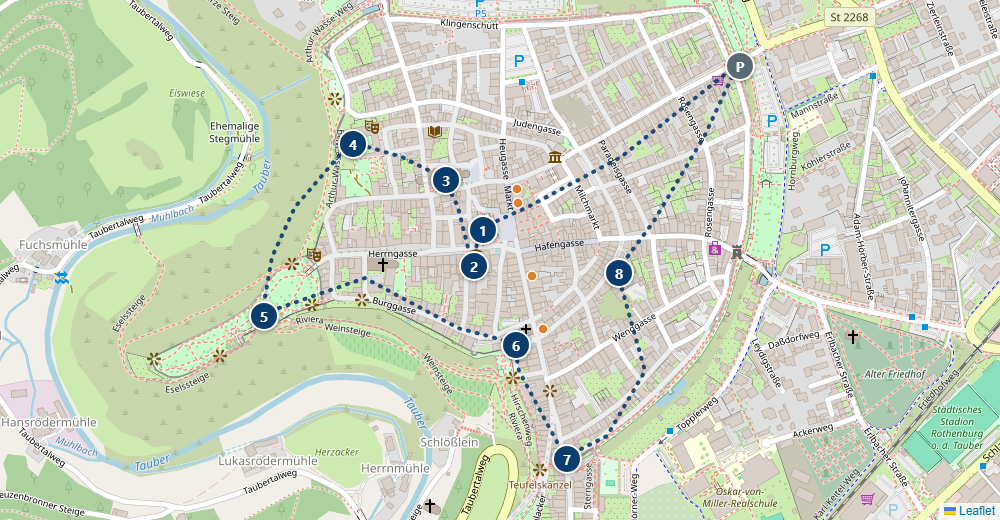
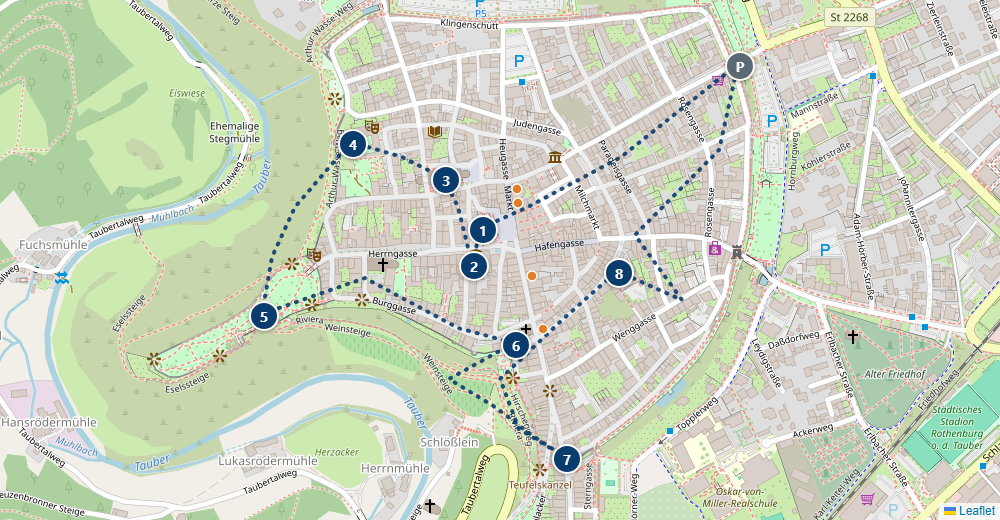
Break up the 6-7-8-P triangle shape on Rothenburg's map with denser zigzags
Points 6, 7, and 8 sit close together in a small triangular
arrangement, so even with one dogleg per leg the path still read as a
clean triangle. Added a 3-waypoint S-curve to each of the 6->7, 7->8,
and 8->P legs so the path visibly winds through the old town instead
of tracing the macro-shape formed by the three points.

diff --git a/germany-roadtrip-planner.html b/germany-roadtrip-planner.html
@@ -1159,7 +1159,7 @@ document.addEventListener('DOMContentLoaded', function(){
       <a class="walk-map-link" href="https://www.google.com/maps/dir/?api=1&travelmode=walking&origin=49.3795,10.1840&destination=49.3795,10.1840&waypoints=49.3772%2C10.1785%7C49.3767%2C10.1783%7C49.3779%2C10.1777%7C49.3784%2C10.1757%7C49.376%2C10.1738%7C49.3756%2C10.1792%7C49.374%2C10.1803%7C49.3766,10.1814" target="_blank" rel="noopener">📍 Google 지도로 도보 코스 보기(출발·도착: P4 Galgentor 주차장) · 총 약 3.1km · 도보 약 44분</a>
       <div class="route-snapshot">
         <div class="route-snapshot-media">
-          <img src="images/routes/rothenburg.png?v=4" alt="로텐부르크 도보 코스 지도 스냅샷" loading="lazy">
+          <img src="images/routes/rothenburg.png?v=5" alt="로텐부르크 도보 코스 지도 스냅샷" loading="lazy">
         </div>
         <ol class="route-steps">
         <li class="rs-p"><span class="rs-name">성벽 구시가(Galgentor)</span></li>

diff --git a/index.html b/index.html
@@ -1159,7 +1159,7 @@ document.addEventListener('DOMContentLoaded', function(){
       <a class="walk-map-link" href="https://www.google.com/maps/dir/?api=1&travelmode=walking&origin=49.3795,10.1840&destination=49.3795,10.1840&waypoints=49.3772%2C10.1785%7C49.3767%2C10.1783%7C49.3779%2C10.1777%7C49.3784%2C10.1757%7C49.376%2C10.1738%7C49.3756%2C10.1792%7C49.374%2C10.1803%7C49.3766,10.1814" target="_blank" rel="noopener">📍 Google 지도로 도보 코스 보기(출발·도착: P4 Galgentor 주차장) · 총 약 3.1km · 도보 약 44분</a>
       <div class="route-snapshot">
         <div class="route-snapshot-media">
-          <img src="images/routes/rothenburg.png?v=4" alt="로텐부르크 도보 코스 지도 스냅샷" loading="lazy">
+          <img src="images/routes/rothenburg.png?v=5" alt="로텐부르크 도보 코스 지도 스냅샷" loading="lazy">
         </div>
         <ol class="route-steps">
         <li class="rs-p"><span class="rs-name">성벽 구시가(Galgentor)</span></li>
